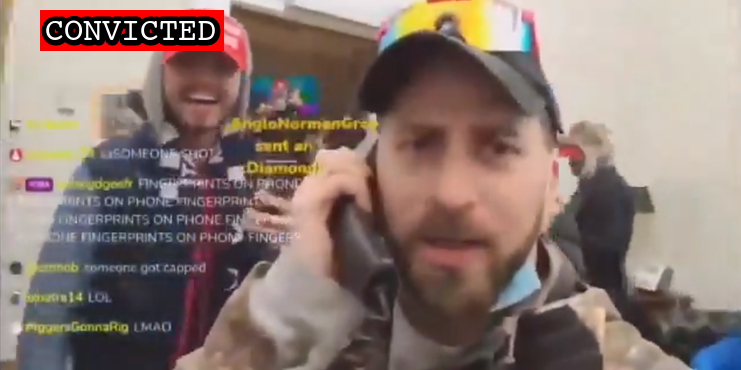
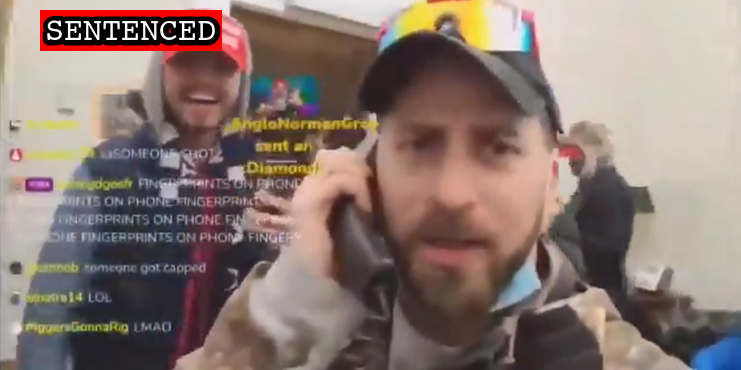
Latest sentences

Changed region(s): [[0.0621, 0.0297, 0.2483, 0.1486]]

diff --git a/docs/_suspects/anthime-gionet.md b/docs/_suspects/anthime-gionet.md
@@ -4,20 +4,20 @@ lastName: Gionet
 hashtag: BakedAlaska
 aka: Tom Gionet, Baked Alaska
 residence: Arizona
-status: Convicted
+status: Sentenced
 date: 2021-01-16
 charged: 2021-01-16
 indicted:
 convicted: 2022-07-22
 acquitted:
-sentenced:
+sentenced: 2023-01-10
 dismissed:
 deceased:
 plea_hearing: 2022-07-22
 trial_date:
 trial_type:
 jury_selection:
-sentencing: 2023-01-12
+sentencing: 2023-01-10
 status_conference:
 age: 33
 occupation:
@@ -41,12 +41,17 @@ caseName: USA v. GIONET
 judge: Trevor N. McFadden
 videos:
 charges:
-- code: 40 USC § 5104(e)(2)(G)
-  title: Parading, demonstrating or picketing in a Capitol building
-  url: https://www.law.cornell.edu/uscode/text/40/5104
-  felony: false
+  - code: 40 USC § 5104(e)(2)(G)
+    title: Parading, demonstrating or picketing in a Capitol building
+    url: https://www.law.cornell.edu/uscode/text/40/5104
+    felony: false
 sentence:
+  - 60 days incarceration
+  - $2000 fine
+  - 2 years probation
+  - $500 restitution
 ---
+
 - [News Report](https://apnews.com/article/joe-biden-donald-trump-capitol-siege-alaska-crime-6666c735165a19a6ee019e412235bd8d)
 - [Self Incrimination](https://twitter.com/Cleavon_MD/status/1348194351172603906?s=20)
 - [Self Incrimination (Cont'd)](https://twitter.com/nathanTbernard/status/1346937960005062661?s=20)

diff --git a/docs/_suspects/brent-holdridge.md b/docs/_suspects/brent-holdridge.md
@@ -4,13 +4,13 @@ lastName: Holdridge
 hashtag:
 aka:
 residence: California
-status: Convicted
+status: Sentenced
 date: 2021-12-02
 charged: 2021-12-02
 indicted:
 convicted: 2022-08-04
 acquitted:
-sentenced:
+sentenced: 2023-01-09
 dismissed:
 deceased:
 plea_hearing:
@@ -41,12 +41,16 @@ caseName: USA v. HOLDRIDGE
 judge: Reggie B. Walton
 videos:
 charges:
-- code: 40 USC § 5104(e)(2)(G)
-  title: Parading, demonstrating or picketing in a Capitol building
-  url: https://www.law.cornell.edu/uscode/text/40/5104
-  felony: false
+  - code: 40 USC § 5104(e)(2)(G)
+    title: Parading, demonstrating or picketing in a Capitol building
+    url: https://www.law.cornell.edu/uscode/text/40/5104
+    felony: false
 sentence:
+  - 60 days incarceration
+  - 3 years probation
+  - $500 restitution
 ---
+
 - [News Report](https://www.msn.com/en-us/news/crime/eureka-man-linked-to-jan-6-riot-to-appear-in-dc-court/ar-AARtjTH)
 - [Statement of Facts](https://www.justice.gov/usao-dc/case-multi-defendant/file/1459121/download)
 - [Information](https://www.justice.gov/usao-dc/case-multi-defendant/file/1524821/download)

diff --git a/docs/_suspects/jerod-hughes.md b/docs/_suspects/jerod-hughes.md
@@ -41,16 +41,15 @@ caseName: USA v. HUGHES
 judge: Timothy J. Kelly
 videos:
 charges:
-  - code: 18 USC § 1512(c)(2),2
-    title: Obstruction of an Official Proceeding (Aiding and Abetting)
-    url: https://www.law.cornell.edu/uscode/text/18/1512
-    felony: true
+- code: 18 USC § 1512(c)(2),2
+  title: Obstruction of an Official Proceeding (Aiding and Abetting)
+  url: https://www.law.cornell.edu/uscode/text/18/1512
+  felony: true
 sentence:
   - 46 months incarceration
   - 3 years probation
   - $2000 restitution
 ---
-
 - [News Report](https://helenair.com/news/local/a-closer-look-at-the-east-helena-brothers-arrested-in-capitol-riot/article_0efda0dd-39e7-5650-8a5c-2ebdc03579b5.html)
 - [Statement of Facts](https://www.justice.gov/opa/page/file/1364151/download)
 - [Indictment](https://www.justice.gov/usao-dc/case-multi-defendant/file/1528956/download)

diff --git a/docs/_suspects/joshua-hughes.md b/docs/_suspects/joshua-hughes.md
@@ -41,13 +41,12 @@ caseName: USA v. HUGHES
 judge: Timothy J. Kelly
 videos:
 charges:
-  - code: 18 USC § 1512(c)(2),2
-    title: Obstruction of an Official Proceeding (Aiding and Abetting)
-    url: https://www.law.cornell.edu/uscode/text/18/1512
-    felony: true
+- code: 18 USC § 1512(c)(2),2
+  title: Obstruction of an Official Proceeding (Aiding and Abetting)
+  url: https://www.law.cornell.edu/uscode/text/18/1512
+  felony: true
 sentence:
 ---
-
 - [News Report](https://helenair.com/news/local/a-closer-look-at-the-east-helena-brothers-arrested-in-capitol-riot/article_0efda0dd-39e7-5650-8a5c-2ebdc03579b5.html)
 - [Statement of Facts](https://www.justice.gov/opa/page/file/1364151/download)
 - [Indictment](https://www.justice.gov/usao-dc/case-multi-defendant/file/1528976/download)

diff --git a/docs/_suspects/paula-conlon.md b/docs/_suspects/paula-conlon.md
@@ -41,15 +41,14 @@ caseName: USA v. CONLON
 judge: Jia M. Cobb
 videos:
 charges:
-  - code: 40 USC § 5104(e)(2)(G)
-    title: Parading, demonstrating or picketing in a Capitol building
-    url: https://www.law.cornell.edu/uscode/text/40/5104
-    felony: false
+- code: 40 USC § 5104(e)(2)(G)
+  title: Parading, demonstrating or picketing in a Capitol building
+  url: https://www.law.cornell.edu/uscode/text/40/5104
+  felony: false
 sentence:
   - 1 year probation
   - $500 restitution
 ---
-
 - [Information](https://www.justice.gov/usao-dc/case-multi-defendant/file/1508911/download)
 - [Complaint](https://www.justice.gov/usao-dc/case-multi-defendant/file/1509901/download)
 - [Statement of Facts](https://www.justice.gov/usao-dc/case-multi-defendant/file/1509906/download)

diff --git a/docs/_suspects/jorden-mink.md b/docs/_suspects/jorden-mink.md
@@ -1,5 +1,5 @@
 ---
-name: Jorden Mink
+name: Jordan Mink
 lastName: Mink
 hashtag: CryBeardBrawler
 aka:
@@ -13,7 +13,7 @@ acquitted:
 sentenced:
 dismissed:
 deceased:
-plea_hearing: 2023-01-09
+plea_hearing: 2023-01-17
 trial_date:
 trial_type:
 jury_selection:
@@ -43,6 +43,7 @@ videos:
 charges:
 sentence:
 ---
+
 - [News Report](https://triblive.com/local/feds-oakdale-man-stormed-capitol-with-baseball-bat-stole-chair/)
 - [Complaint](https://www.justice.gov/opa/page/file/1357221/download)
 - [Statement of Facts](https://www.justice.gov/opa/page/file/1357221/download)

diff --git a/docs/_suspects/mikhail-slye.md b/docs/_suspects/mikhail-slye.md
@@ -51,3 +51,4 @@ sentence:
 - [Complaint](https://www.justice.gov/usao-dc/case-multi-defendant/file/1539651/download)
 - [Statement of Facts](https://www.justice.gov/usao-dc/case-multi-defendant/file/1539656/download)
 - [DOJ Press Release (Arrest)](https://www.justice.gov/usao-dc/pr/pennsylvania-man-arrested-felony-and-misdemeanor-charges-actions-during-jan-6-capitol)
+- [Plea Agreement](https://www.justice.gov/usao-dc/case-multi-defendant/file/1561296/download)

diff --git a/docs/_suspects/ian-horvath.md b/docs/_suspects/ian-horvath.md
@@ -13,7 +13,7 @@ acquitted:
 sentenced:
 dismissed:
 deceased:
-plea_hearing: 2023-01-09
+plea_hearing: 2023-01-23
 trial_date:
 trial_type:
 jury_selection:
@@ -43,5 +43,6 @@ videos:
 charges:
 sentence:
 ---
+
 - [News Report](https://www.wishtv.com/news/indiana-news/northern-indiana-man-arrested-for-entering-capitol-on-jan-6/)
 - [Statement of Facts](https://storage.courtlistener.com/recap/gov.uscourts.dcd.245770/gov.uscourts.dcd.245770.1.1.pdf)

diff --git a/docs/_suspects/michael-roche.md b/docs/_suspects/michael-roche.md
@@ -14,11 +14,11 @@ sentenced:
 dismissed:
 deceased:
 plea_hearing:
-trial_date:
-trial_type:
+trial_date: 2023-03-10
+trial_type: Bench Trial
 jury_selection:
 sentencing:
-status_conference: 2023-01-09
+status_conference: 2023-01-20
 age: 26
 occupation:
 affiliations:
@@ -38,7 +38,7 @@ layout: suspect
 published: true
 caseNumber: 22-cr-0086
 caseName: USA v. ROCHE
-judge: Thomas F. Hogan
+judge: Beryl A. Howell
 videos:
 charges:
 sentence:

diff --git a/docs/_suspects/joseph-irwin.md b/docs/_suspects/joseph-irwin.md
@@ -14,11 +14,11 @@ sentenced:
 dismissed:
 deceased:
 plea_hearing:
-trial_date: 2023-01-23
+trial_date: 2023-01-26
 trial_type: Bench Trial
-jury_selection:
+jury_selection: 2023-01-26
 sentencing:
-status_conference: 2023-01-09
+status_conference:
 age:
 occupation: Retired US Army, Retired County Police Officer
 affiliations: Former Sheriff's Deputy; U.S. Army, Retired

diff --git a/docs/_suspects/richard-barnett.md b/docs/_suspects/richard-barnett.md
@@ -14,9 +14,9 @@ sentenced:
 dismissed:
 deceased:
 plea_hearing:
-trial_date: 2022-12-12
+trial_date: 2023-01-10
 trial_type: Jury Trial
-jury_selection:
+jury_selection: 2023-01-10
 sentencing:
 status_conference:
 age: 60

diff --git a/docs/_suspects/deborah-sandoval.md b/docs/_suspects/deborah-sandoval.md
@@ -38,7 +38,7 @@ layout: suspect
 published: true
 caseNumber: 21-cr-0195
 caseName: USA v. SANDOVAL
-judge: Thomas F. Hogan
+judge: Colleen Kollar-Kotelly
 videos:
 charges:
 - code: 40 USC § 5104(e)(2)(G)
